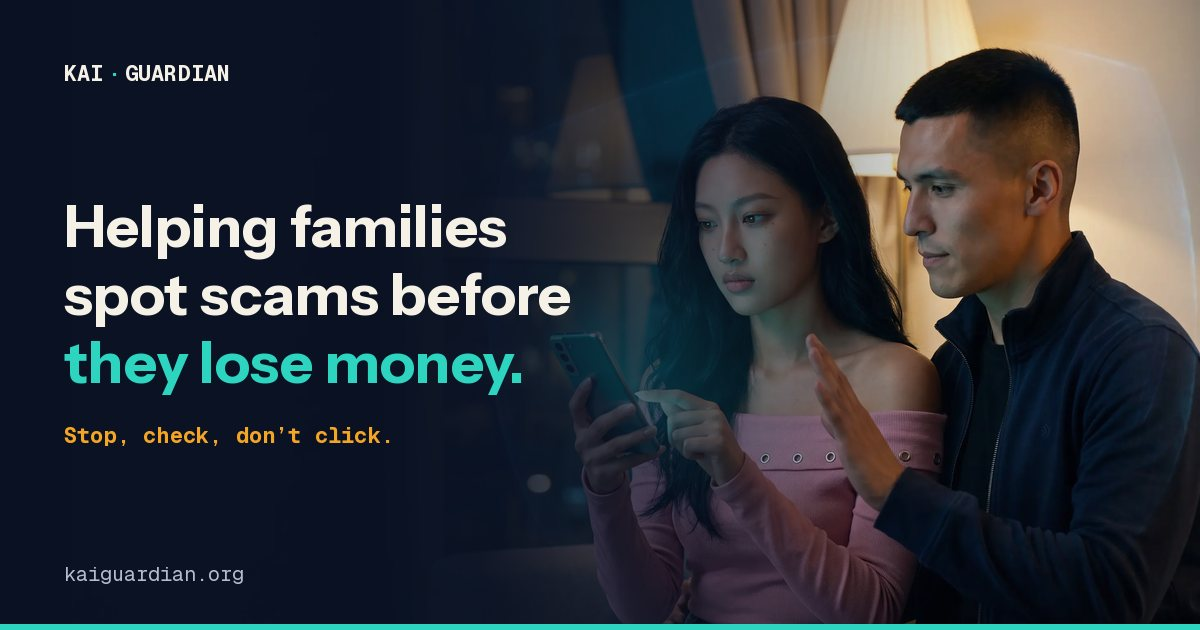
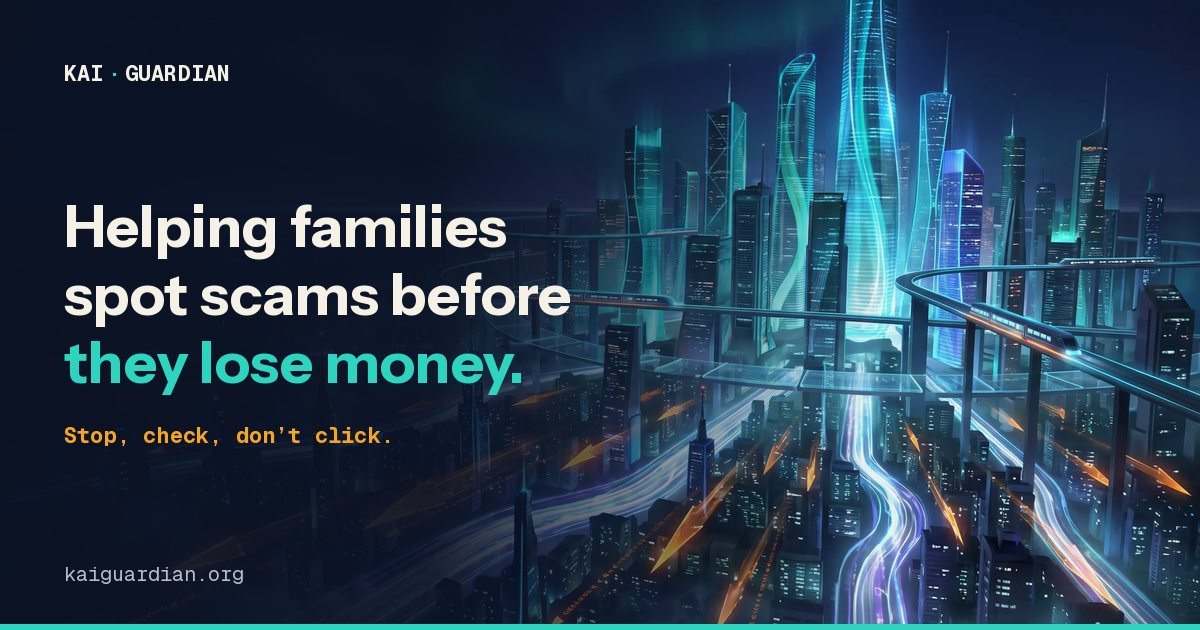
Hero: futuristic 2050 megacity keyframe replaces Kai + Maya (owner request)
Removed the Kai + Maya hero images; new poster is the first frame of the
upcoming cinematic hero video. Social card rebuilt from the same frame.

Claude-Session: https://claude.ai/code/session_01VwALTYshKB9PLcmYecdiqo

diff --git a/index.html b/index.html
@@ -2154,14 +2154,14 @@
   <section class="gh" id="top" aria-labelledby="vhero-h">
     <div class="gh-media" aria-hidden="true">
       <picture>
-        <source media="(max-width: 760px)" srcset="assets/hero-kai-maya-mobile.webp" type="image/webp">
-        <source srcset="assets/hero-kai-maya.webp" type="image/webp">
-        <img class="gh-poster" src="assets/hero-kai-maya.jpg" alt="" width="1920" height="1072" fetchpriority="high" decoding="async">
+        <source media="(max-width: 760px)" srcset="assets/hero-city-mobile.webp" type="image/webp">
+        <source srcset="assets/hero-city.webp" type="image/webp">
+        <img class="gh-poster" src="assets/hero-city.jpg" alt="" width="1920" height="1072" fetchpriority="high" decoding="async">
       </picture>
       <!-- HERO VIDEO ASSET NEEDED: a short, muted loop (e.g. assets/hero-family.mp4).
            Set data-src below to its path; until then the poster image is shown. -->
       <video class="gh-video" id="gh-video" muted playsinline loop preload="none"
-             poster="assets/hero-kai-maya.jpg" data-src="" hidden></video>
+             poster="assets/hero-city.webp" data-src="" hidden></video>
     </div>
     <div class="gh-shade" aria-hidden="true"></div>
 

diff --git a/ASSET_REBRAND_TODO.md b/ASSET_REBRAND_TODO.md
@@ -4,16 +4,16 @@ Tracks images, video and configuration the site needs. Updated 30 September 2026
 
 ## Done
 
-- [x] **Hero image** — `assets/hero-kai-maya.webp` (desktop), `assets/hero-kai-maya-mobile.webp`
-  (mobile crop) and `assets/hero-kai-maya.jpg` (fallback / video poster). Generated in
-  Higgsfield with the Kai Tan and Maya-Tan characters.
+- [x] **Hero image** — futuristic 2050 megacity keyframe: `assets/hero-city.webp` (desktop,
+  also the video poster), `assets/hero-city-mobile.webp` (mobile crop), `assets/hero-city.jpg`
+  (fallback). Generated in Higgsfield; no characters.
 - [x] **Mascot** — `assets/mascot-kaiguardian.webp` (Kai the lion, from the Higgsfield
   element), shown in the About section.
 - [x] **YouTube** — all links use `@KaiGuardianAcademy`; the Watch and learn section uses
   four real channel videos (click-to-play).
 - [x] **Guide PDFs** — `guides/scam-check-starter.pdf`, `guides/boss-scam.pdf`,
   `guides/family-scam-guide.pdf` (KaiGuardian branding).
-- [x] **Social preview** — `assets/og-image.jpg` rebuilt from the Kai + Maya hero (teal/amber).
+- [x] **Social preview** — `assets/og-image.jpg` rebuilt from the futuristic city keyframe (teal/amber).
 - [x] **Favicon** — inline SVG, no brand text.
 
 ## Still needed
